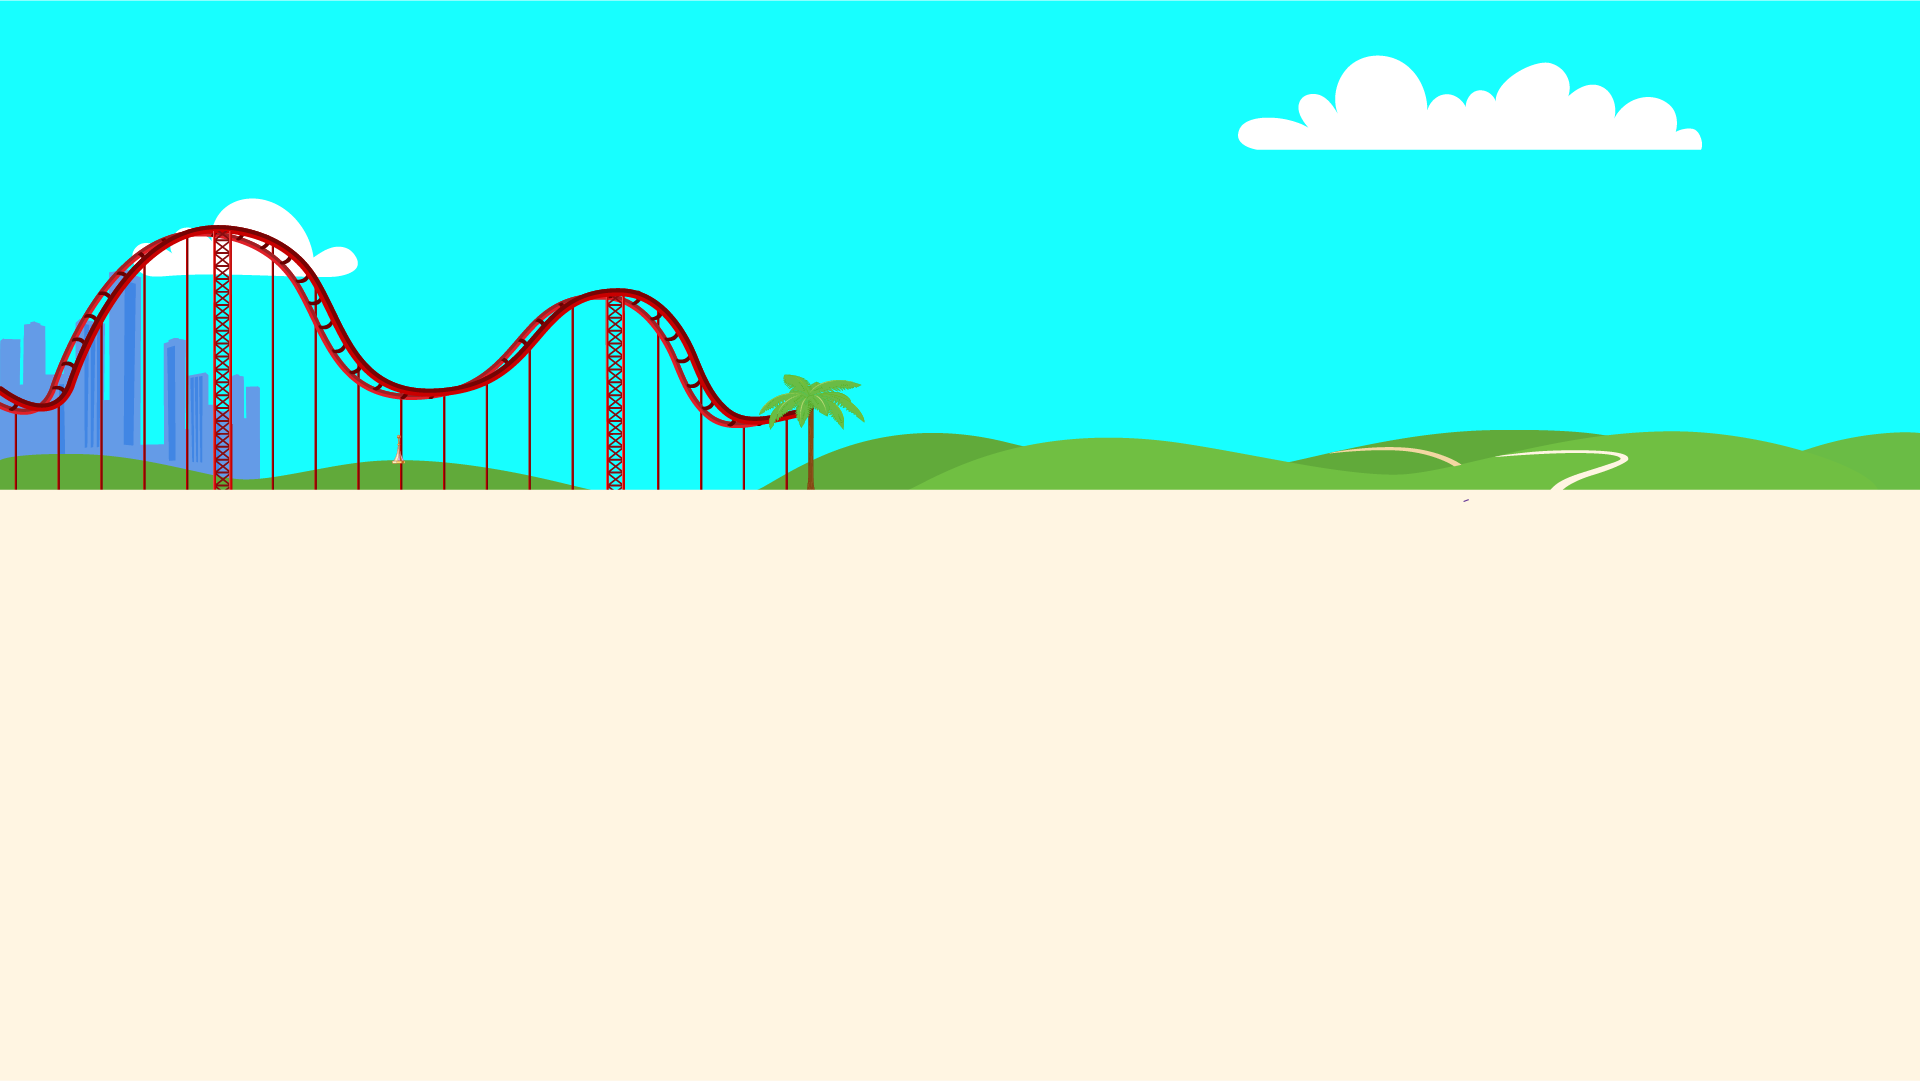
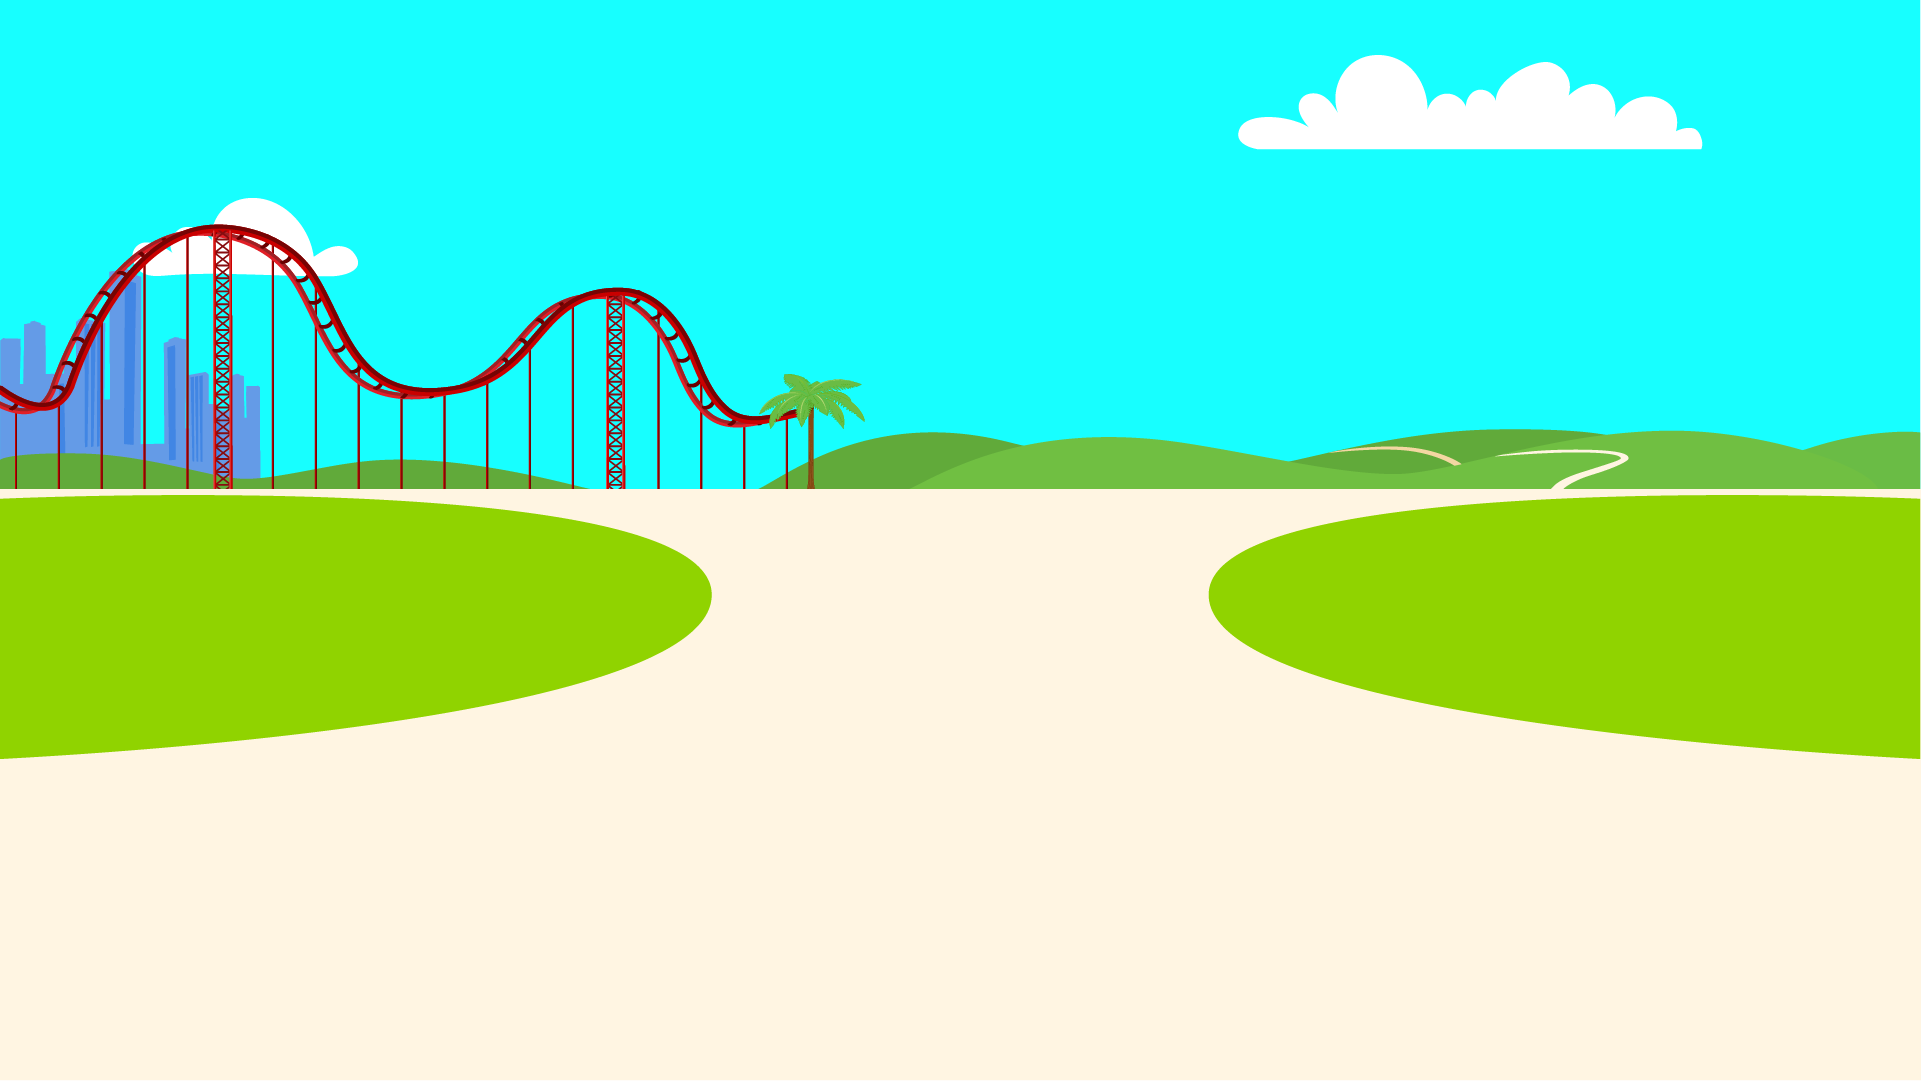
Initial commit

diff --git a/src/widgets/achievementScreen/js/achievementScreen.jsx b/src/widgets/achievementScreen/js/achievementScreen.jsx
@@ -5,6 +5,8 @@ import { FormattedMessage } from "react-intl";
 import {getAnimation, useIsVisible} from "../../../container/js/utilities/utilities";
 import { getAnimationAsync } from '../../../container/js/utilities/helper.jsx';
 import { PageContext } from "../../../container/js/utilities/context";
+import ShowAvatarAndName from '../../../container/js/showAvatarAndName.jsx';
+
 import mission1_success from "../images/mission1_success.png";
 import mission2_success from "../images/mission2_success.png";
 import mission3_success from "../images/mission3_success.png";
@@ -92,8 +94,14 @@ const AchievementScreen = ({ parameters }) => {
 
 
   return (
-    <motion.div ref={containerRef} className="achievementScreen-container p-0 m-0 h-100 w-100" {...getAnimation("fade", 0.4, 0)} initial="initial" animate={controls}>
+    <div className="achievementScreen-container p-0 m-0 h-100 w-100">
       <div className="achievementScreen-content w-100">
+        <motion.div className="avatarAndScore" variants={getAnimation("flipX", 0.6, 0.4)} initial="initial" animate={controls}>
+          <ShowAvatarAndName />
+          {/* <ShowScoring /> */}
+        </motion.div> 
+         <motion.div ref={containerRef} className="achievementScreen-container p-0 m-0 h-100 w-100" {...getAnimation("fade", 0.4, 0)} initial="initial" animate={controls}>
+
          {backgroundVideoData && 
           <video ref={backgroundVideoRef} 
             className="videoSplashScreen" 
@@ -122,9 +130,10 @@ const AchievementScreen = ({ parameters }) => {
         </motion.div>
      
 
-
-      </div>
-    </motion.div>
+      </motion.div>
+    </div>
+  </div>
+    
   );
 };
 

diff --git a/src/widgets/achievementScreen/css/achievementScreen.scss b/src/widgets/achievementScreen/css/achievementScreen.scss
@@ -78,11 +78,11 @@ img.selected-avatar-image {
         background-image: url(../images/splshPopup.png);
         background-repeat: no-repeat;
         background-size: 100% auto;
-        width: 1056px;
-        height: 850px;
+         width: 845px;
+        height: 8687px;
         position: relative;
         padding: 0 60px;
-        margin-bottom: 200px;
+       margin-top: 80px;
         &.last{
             background-image: url(../images/splash-final.png);
             .achievementScreen-content-titles{
@@ -94,7 +94,7 @@ img.selected-avatar-image {
     //     margin-top: 140px;
     // }
     .startLessonBtnHolder{
-        margin-top: 50px;
+        margin-top: 87px;
     }
 }
 
@@ -182,7 +182,7 @@ img.selected-avatar-image {
 }
 .achievementScreen-content .lessonTitle {
     display: block;
-    font-size: 80px;
+    font-size: 70px;
     color: #FFFFFF;
     // max-width: 600px;
     text-align: center;
@@ -213,14 +213,18 @@ img.selected-avatar-image {
     justify-content: space-between;
     align-items: center;
     width: 100%;
-    height:790px;
-    margin-top: 87px;
+    height: 532px;
+    margin-top: 82px;
+}
+.teamImageMainDiv img {
+    height: auto;
+    width: 243px;
 }
 .achievementScreen-content-titles{
     display: flex;
-    gap: 50px;
+    gap: 28px;
     flex-direction: column;
-    min-height: 155px;
+    min-height: 108px;
 }
 .explanation-screen .startLessonBtnHolder {
     position: absolute;

diff --git a/src/widgets/multiplechoice/js/multiplechoice.jsx b/src/widgets/multiplechoice/js/multiplechoice.jsx
@@ -202,7 +202,7 @@ const MultipleChoice = (props) => {
   }, [isVisible, currentRound]); 
 
   return (
-    <div className="mc-container w-100 component-container">
+    <div className= {`mc-container w-100 component-container mc-game-container_${avatarSelected}`} >
       <HintButton
         hintData={content.hintData}
         setHintData={setHintData}
@@ -212,7 +212,7 @@ const MultipleChoice = (props) => {
 					<ShowAvatarAndName />
 					{/* <ShowScoring /> */}
 				</motion.div> 
-        <div className="mc-game-container">
+        <div className= "mc-game-container">
           <motion.div className="mainQuestionHolderDiv">
             <motion.div className="mainQuestionHolder" variants={getAnimation("slideDown", 0.6, 0.4)} initial="initial" animate={controls}>
               <Row className="audio-help-container mb-0 mx-0">
@@ -313,7 +313,7 @@ const MultipleChoice = (props) => {
               ref={backgroundVideoRef}
               className="videoSplashScreen"
               src={backgroundVideoData}
-              poster={new URL(`../../../container/videos/mission${gameIndex}_${avatarSelected}_question${currentRound + 1}_thumbnail.png`, import.meta.url).href}
+              poster={new URL(`../../../container/videos/Mission0${gameIndex}_${avatarSelected}_question${currentRound + 1}_thumbnail.png`, import.meta.url).href}
               autoPlay  
               muted  
               playsInline

diff --git a/src/widgets/dnd/css/dnd.scss b/src/widgets/dnd/css/dnd.scss
@@ -1,3 +1,8 @@
+    #Main_Slide-11  .dnd-game-container_avatar01, #Main_Slide-11  .dnd-game-container_avatar02
+ {
+    background-image: url(../images/Mission02_question1_thumbnail.png);
+}
+   
    .dnd-content {
     height: 100%;
     display: flex;
@@ -21,7 +26,7 @@
                 border: 3px solid #00b7ec;
             }   
             .droppable-inline {
-                width: 150px;
+                width: 184px;
                 height: 64px;
                 margin: 0 10px;
                 display: inline-flex;
@@ -154,7 +159,7 @@
     height: 100%;
 }
 .draggable-item {
-    width: 150px;
+    width: 184px;
     height: 65px;
     display: flex;
     align-content: center;
@@ -515,7 +520,7 @@ margin: 30px 0 !important;
 }
 #Main_Slide-14{
     .mc-game-container {
-        width: 1090px;
+        width: 940px;
         min-height: 695px;
     }
     .mainQuestionHolderDiv {
@@ -529,6 +534,7 @@ margin: 30px 0 !important;
     height: 76px;
     background-color: #f2e5f7;
     display: flex;
+    color: #452b74;
 }
 .subquestionTextHolder {
     display: flex;
@@ -544,6 +550,9 @@ margin: 30px 0 !important;
 .round-progress {
     bottom: 78px;
     width: 487px;
-        right: 302px;
+        right: 225px;
+}
+.mc-game-container .feedback-container-holder {
+    height: 131px;
 }
 }

diff --git a/src/widgets/toc/js/toc.jsx b/src/widgets/toc/js/toc.jsx
@@ -11,7 +11,7 @@ import "../css/toc.scss";
 import "swiper/css";
 import "swiper/css/effect-coverflow";
 import "swiper/css/navigation";
-
+import ShowAvatarAndName from '../../../container/js/showAvatarAndName.jsx';
 import Lottie from "lottie-react";
 
 import ScreenOpenSFX from "../sounds/screen_open.mp3";
@@ -137,6 +137,10 @@ const TOC = (props) => {
           </motion.div>
         </motion.div>
       <motion.div ref={containerRef} className="toc-container w-100 h-100 d-flex flex-column align-items-center">
+        <motion.div className="avatarAndScore" variants={getAnimation("flipX", 0.6, 0.4)} initial="initial" animate={controls}>
+					<ShowAvatarAndName />
+					{/* <ShowScoring /> */}
+				</motion.div> 
         <div className="toc-slides-holder w-100 d-flex flex-row align-items-center justify-content-center"
           style={{ pointerEvents: animationsCompleted ? "auto" : "none",}}>
           {slidesData.map((slide, slideIndex) => {

diff --git a/src/widgets/dnd/js/dnd.jsx b/src/widgets/dnd/js/dnd.jsx
@@ -553,7 +553,7 @@ const dnd = ({ parameters, index }) => {
  	}
 
 	return ( 
-		<div className="dnd-container component-container w-100" style={{ backgroundImage: `url(images/toc_bg.png)`,}}>
+		<div className= {`dnd-container w-100 component-container dnd-game-container_${avatarSelected}`} >
 			<HintButton
         		hintData={content.hintData}
        			setHintData={setHintData}
@@ -682,7 +682,7 @@ const dnd = ({ parameters, index }) => {
 						<video ref={backgroundVideoRef} 
 							className="videoSplashScreen" 
 							src={backgroundVideoData} 
-							poster={new URL(`../../../container/videos/mission${content.gameId}_${posterPart}_poster.png`, import.meta.url).href}
+							poster={new URL(`../../../container/videos/Mission0${content.gameId}_${posterPart}_poster.png`, import.meta.url).href}
 							autoPlay
 							muted
 							playsInline

diff --git a/src/widgets/splashScreen/css/splashScreen.scss b/src/widgets/splashScreen/css/splashScreen.scss
@@ -1,3 +1,17 @@
+ #Main_Slide-7 .splashScreen-container 
+ {
+    background-image: url(../images/Mission01_splashScreen_thumbnail.png);
+}
+ #Main_Slide-10 .splashScreen-container 
+ {
+    background-image: url(../images/Mission02_splashScreen_thumbnail.png);
+}
+ #Main_Slide-13 .splashScreen-container 
+ {
+    background-image: url(../images/Mission03_splashScreen_thumbnail.png);
+}
+
+
 .splashScreen-container {
     position: relative;
     height: 1080px !important;
@@ -7,7 +21,6 @@
     justify-content: center;
     padding: 0;
     height: 100% !important;
-    background-image: url(../../../container/images/layout_bg.png);
     background-repeat: no-repeat;
     background-size: 100%;
 

diff --git a/src/widgets/multiplechoice/css/multipleChoice.scss b/src/widgets/multiplechoice/css/multipleChoice.scss
@@ -1,3 +1,21 @@
+ #Main_Slide-8  .mc-game-container_avatar01
+ {
+    background-image: url(../images/Mission01_avatar01_question1_thumbnail.png);
+}
+ #Main_Slide-14  .mc-game-container_avatar01
+ {
+    background-image: url(../images/Mission03_avatar01_question1_thumbnail.png);
+}
+ #Main_Slide-8  .mc-game-container_avatar02
+ {
+    background-image: url(../images/Mission01_avatar02_question1_thumbnail.png);
+}
+ #Main_Slide-14  .mc-game-container_avatar02
+ {
+    background-image: url(../images/Mission03_avatar02_question1_thumbnail..png);
+}
+
+
 .mc-wrapper {
   height: 100%;
   position: relative;
